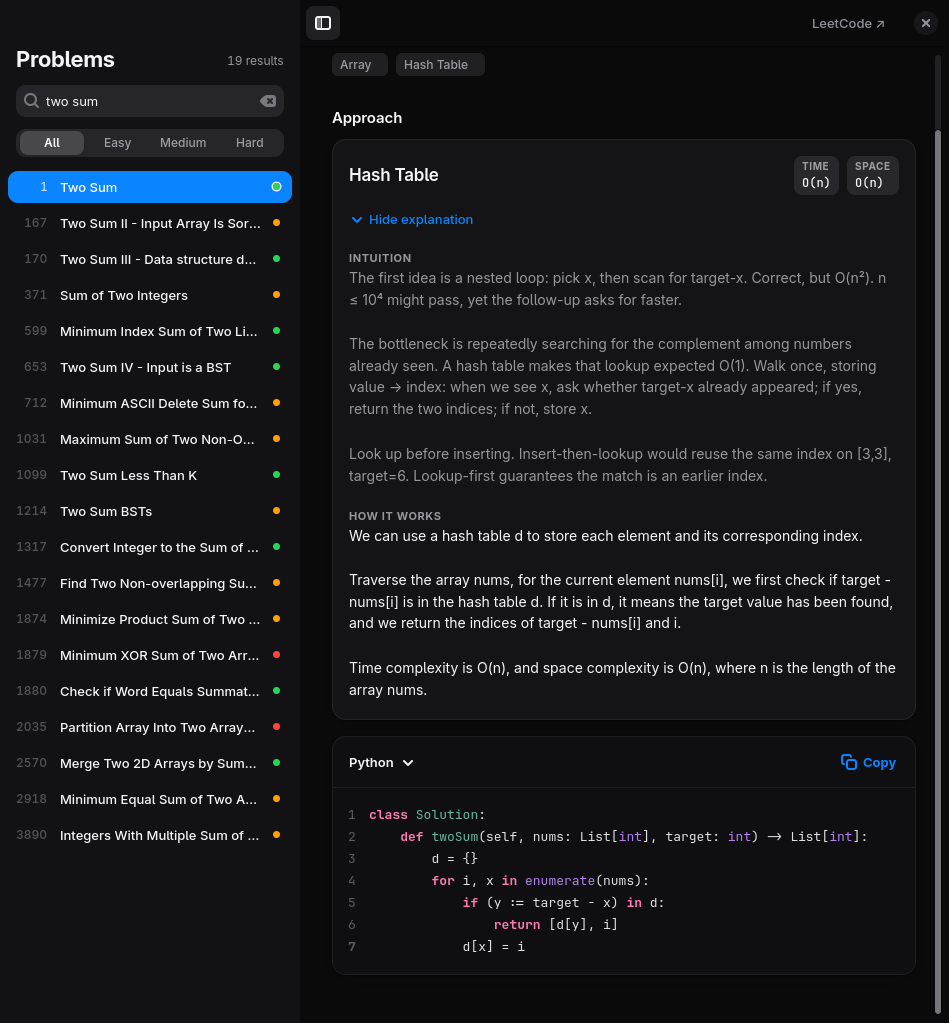
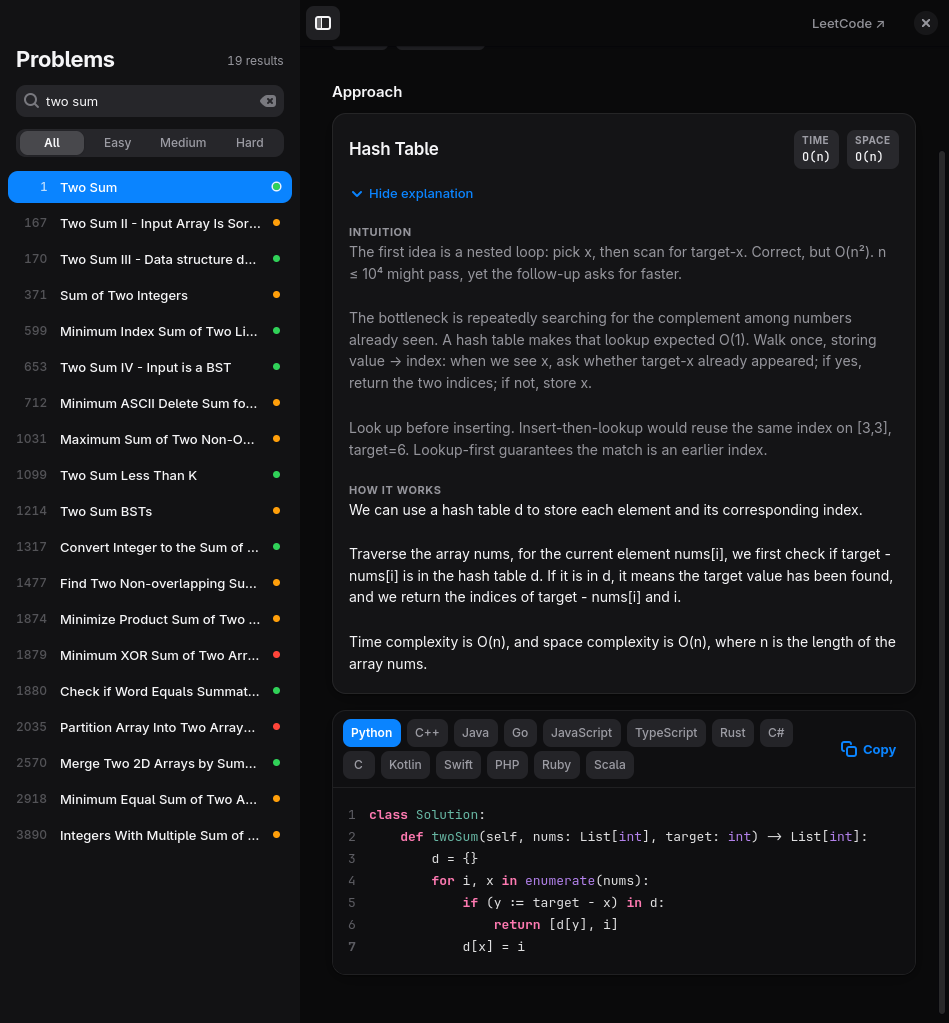
Replace language dropdown with wrapping choice buttons
Show one button per language the problem has instead of a borderless
dropdown, so every option is visible at once. The chosen language is
solid blue; clicking one switches the code and copies it.

Needs libadwaita 1.7 (Adw.WrapBox). README and screenshot updated.

diff --git a/style.css b/style.css
@@ -316,18 +316,25 @@ textview.lc-prose.lc-prose-quiet, textview.lc-prose.lc-prose-quiet text { color:
   border-bottom: 1px solid @lc_sep;
 }
 
-dropdown.lc-lang > button {
-  background: transparent;
+/* language choice buttons: solid blue marks the chosen one, like a selected sidebar row */
+.lc-chips > button {
+  background: @lc_fill;
+  background-image: none;
   border: none;
   box-shadow: none;
+  outline: none;
   border-radius: 8px;
-  padding: 4px 8px;
-  font-weight: 600;
-  min-height: 26px;
+  min-height: 28px;
+  padding: 0 8px;
   transition: background-color 150ms ease;
 }
 
-dropdown.lc-lang > button:hover { background: @lc_fill; }
+.lc-chips > button label { color: @lc_fg2; font-size: 12px; font-weight: 500; transition: color 150ms ease; }
+.lc-chips > button:hover { background: @lc_fill_strong; }
+.lc-chips > button:hover label { color: @lc_fg; }
+.lc-chips > button:checked { background: @lc_accent; }
+.lc-chips > button:checked label { color: #ffffff; font-weight: 600; }
+.lc-chips > button:focus-visible { box-shadow: 0 0 0 2px alpha(@lc_accent, 0.5); }
 
 button.lc-copy {
   background: transparent;
@@ -335,7 +342,7 @@ button.lc-copy {
   box-shadow: none;
   border-radius: 8px;
   padding: 4px 8px;
-  min-height: 26px;
+  min-height: 28px;
   color: @lc_accent;
   font-weight: 600;
   transition: background-color 150ms ease, color 200ms ease;

diff --git a/lc_gui.py b/lc_gui.py
@@ -192,21 +192,34 @@ def label(text="", *classes, **props):
     return widget
 
 
-def segmented(labels, on_change):
-    """An Apple-style segmented control; on_change(index) fires when the choice changes."""
-    box = Gtk.Box(halign=Gtk.Align.START)
-    box.add_css_class("lc-segmented")
+def toggle_group(labels, add, on_change, ellipsize):
+    """Radio-style toggle buttons; on_change(index) fires when the choice changes."""
+    mode = Pango.EllipsizeMode.END if ellipsize else Pango.EllipsizeMode.NONE
     buttons = []
-    for i, text in enumerate(labels):
-        button = Gtk.ToggleButton(child=label(text, ellipsize=Pango.EllipsizeMode.END, xalign=0.5))
+    for text in labels:
+        button = Gtk.ToggleButton(child=label(text, ellipsize=mode, xalign=0.5))
         if buttons:
             button.set_group(buttons[0])
-        box.append(button)
+        add(button)
         buttons.append(button)
     buttons[0].set_active(True)
     for i, button in enumerate(buttons):  # connect after the initial choice so it doesn't fire
         button.connect("toggled", lambda b, i=i: b.get_active() and on_change(i))
-    return box, buttons
+    return buttons
+
+
+def segmented(labels, on_change):
+    """An Apple-style segmented control."""
+    box = Gtk.Box(halign=Gtk.Align.START)
+    box.add_css_class("lc-segmented")
+    return box, toggle_group(labels, box.append, on_change, ellipsize=True)
+
+
+def chips(labels, on_change):
+    """Choice buttons that wrap onto more lines instead of hiding any option."""
+    wrap = Adw.WrapBox(child_spacing=4, line_spacing=4, valign=Gtk.Align.START)
+    wrap.add_css_class("lc-chips")
+    return wrap, toggle_group(labels, wrap.append, on_change, ellipsize=False)
 
 
 def prose_view(*classes):
@@ -243,7 +256,7 @@ class Window(Adw.ApplicationWindow):
         self.current = None       # problem number shown on the right
         self.approaches = []
         self.approach = 0
-        self.lang_exts = []       # extensions offered by the language dropdown, in order
+        self.lang_exts = []       # extensions offered by the language buttons, in order
         self.code = ""
         self.difficulty = None    # sidebar filter
         self.request_id = 0
@@ -452,11 +465,9 @@ class Window(Adw.ApplicationWindow):
         code_card.add_css_class("lc-code-card")
         code_header = Gtk.Box(spacing=8)
         code_header.add_css_class("lc-code-header")
-        self.lang = Gtk.DropDown(model=Gtk.StringList())
-        self.lang.add_css_class("lc-lang")
-        self.lang.connect("notify::selected", self.on_language)
-        code_header.append(self.lang)
-        code_header.append(Gtk.Box(hexpand=True))
+        # One button per language this approach has, filled in by show_approach.
+        self.lang_bin = Adw.Bin(hexpand=True, valign=Gtk.Align.START)
+        code_header.append(self.lang_bin)
         self.copy_content = Adw.ButtonContent(icon_name="edit-copy-symbolic", label="Copy")
         self.copy_button = Gtk.Button(child=self.copy_content, tooltip_text="Copy (Ctrl+Shift+C)")
         self.copy_button.add_css_class("lc-copy")
@@ -666,11 +677,12 @@ class Window(Adw.ApplicationWindow):
         self.lang_exts = [ext for _, ext in LANGUAGES if ext in approach["code"]]
         preferred = self.preferred_ext()
         ext = preferred if preferred in self.lang_exts else ("py" if "py" in self.lang_exts else self.lang_exts[0])
-        self.syncing = True
         names = dict((e, n) for n, e in LANGUAGES)
-        self.lang.set_model(Gtk.StringList.new([names[e] for e in self.lang_exts]))
-        self.lang.set_selected(self.lang_exts.index(ext))
+        self.syncing = True
+        wrap, buttons = chips([names[e] for e in self.lang_exts], self.on_language)
+        buttons[self.lang_exts.index(ext)].set_active(True)
         self.syncing = False
+        self.lang_bin.set_child(wrap)
         self.show_code(ext)
 
     def show_code(self, ext):
@@ -686,10 +698,10 @@ class Window(Adw.ApplicationWindow):
 
     # ---------- actions ----------
 
-    def on_language(self, *_):
-        if self.syncing or not self.lang_exts:
+    def on_language(self, index):
+        if self.syncing or index >= len(self.lang_exts):
             return
-        ext = self.lang_exts[self.lang.get_selected()]
+        ext = self.lang_exts[index]
         self.settings["lang"] = ext
         save_settings(self.settings)
         self.show_code(ext)

diff --git a/README.md b/README.md
@@ -32,6 +32,8 @@ The GUI adds:
 
 - The problem's difficulty, topic tags, time and space complexity, and a written
   intuition and explanation for each approach.
+- One button per language the problem has a solution in. Click one and that solution
+  is shown and copied. Your choice is remembered.
 - Syntax highlighting, light and dark mode (it follows your system), and an Apple-style
   layout that collapses its sidebar in narrow windows.
 - Opening a problem **copies the solution automatically**. The Copy button turns into
@@ -40,7 +42,7 @@ The GUI adds:
 ## Install
 
 Requires Python 3 (developed on 3.14) and a clipboard tool. The GUI also needs GTK 4 and
-libadwaita 1.6 or newer.
+libadwaita 1.7 or newer.
 
 ```sh
 git clone https://github.com/ilqqy/lc-solutions.git
@@ -96,7 +98,7 @@ Run `lc-gui`, or open **LeetCode Solutions** from your app menu.
 | `Esc` | Clear the search |
 
 The segmented filter under the search box narrows the list to Easy, Medium or Hard.
-Your chosen language is remembered between runs.
+The language buttons above the code only list languages the problem actually has.
 
 ## How it works
 
